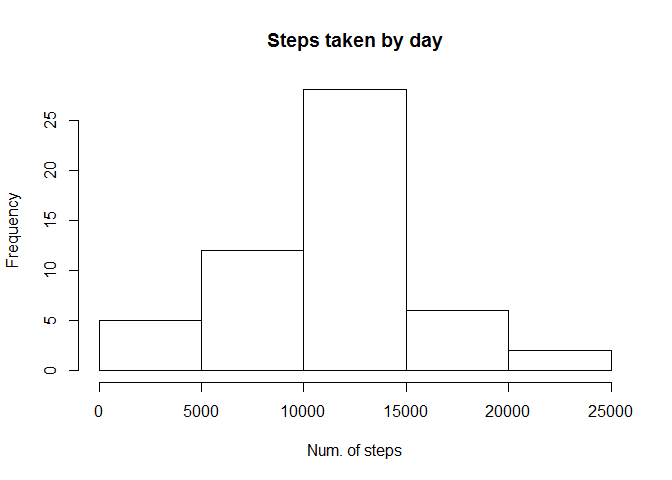
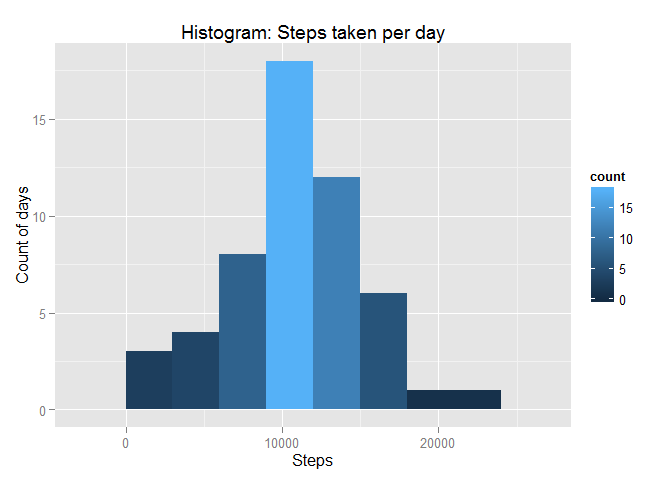
Changing graphics to ggplot. Part 3: done

diff --git a/PA1_template.html b/PA1_template.html
@@ -8,6 +8,7 @@
 <meta http-equiv="Content-Type" content="text/html; charset=utf-8" />
 <meta name="generator" content="pandoc" />
 
+<meta name="author" content="Tony G. Bolaño" />
 
 
 <title>Reproducible Research: Peer Assessment 1</title>
@@ -61,15 +62,15 @@ img {
 
 <div id="header">
 <h1 class="title">Reproducible Research: Peer Assessment 1</h1>
+<h4 class="author"><em>Tony G. Bolaño</em></h4>
 </div>
 
 
 <div id="loading-and-preprocessing-the-data" class="section level2">
 <h2>Loading and preprocessing the data</h2>
-<p>First of all we clean the workspace as you can read on <a href="https://support.rstudio.com/hc/en-us/articles/200711843-Working-Directories-and-Workspaces" class="uri">https://support.rstudio.com/hc/en-us/articles/200711843-Working-Directories-and-Workspaces</a> and unzip the data file, which create a <code>activity.csv</code> file. If <code>activity.csv</code> exists it will be overwritten.</p>
+<p>First of all we unzip the data file, which extracts <code>activity.csv</code> file. If <code>activity.csv</code> exists it will be overwritten.</p>
 <p>The scripts stops if no file <code>activity.zip</code> was found in working directory or it couldn’t be unzipped.</p>
-<pre class="r"><code>rm(list = ls())
-zipfile &lt;- &quot;activity.zip&quot;
+<pre class="r"><code>zipfile &lt;- &quot;activity.zip&quot;
 if (!file.exists(zipfile)) {
     stop (&quot;No activity.zip zipped data file found on working directory&quot;)
 }
@@ -87,8 +88,12 @@ tryCatch({
 <h2>What is mean total number of steps taken per day?</h2>
 <p>First we calculate total steps by day using <code>aggregate</code> function and plot an histogram with resulting data.frame.</p>
 <pre class="r"><code>steps_by_day &lt;- aggregate(steps ~ date, activity, sum)
-hist(steps_by_day$steps, main = &quot;Steps taken by day&quot;, xlab = &quot;Num. of steps&quot;)</code></pre>
[1 lines of base64/hex data omitted]
+library(ggplot2)
+p &lt;- ggplot(steps_by_day, aes(x = (steps)))
+p &lt;- p + labs( x = &quot;Steps&quot;, y = &quot;Count of days&quot;, title = &quot;Histogram: Steps taken per day&quot;)
+p &lt;- p + geom_histogram(binwidth = 3000 ,aes(fill = ..count..))
+p</code></pre>
[1 lines of base64/hex data omitted]
 <p>And now calculate mean and median</p>
 <pre class="r"><code>mean(steps_by_day$steps)</code></pre>
 <pre><code>## [1] 10766.19</code></pre>
@@ -97,6 +102,19 @@ hist(steps_by_day$steps, main = &quot;Steps taken by day&quot;, xlab = &quot;Num
 </div>
 <div id="what-is-the-average-daily-activity-pattern" class="section level2">
 <h2>What is the average daily activity pattern?</h2>
+<p>First we calculate the mean of steps on each five minutes interval. and draw a time series plot, marking the value of max. average steps at the top of the line.</p>
+<pre class="r"><code>int_avg &lt;- aggregate(steps ~ interval, activity, mean)
+
+p &lt;- ggplot( int_avg, aes(x = interval, y = steps)) + geom_line(colour = &quot;#0000CC&quot;)
+p &lt;- p + labs(x = &quot;Interval&quot;, y = &quot;Steps average&quot;, title = &quot;Steps average by time interval&quot;)
+p</code></pre>
[1 lines of base64/hex data omitted]
+<p>With this data.frame we calculate max value for steps and which interval correspond to that value.</p>
+<pre class="r"><code>maxavg &lt;- max(int_avg$steps)
+maxint &lt;- int_avg[int_avg$steps == maxavg,&quot;interval&quot;]
+maxint</code></pre>
+<pre><code>## [1] 835</code></pre>
+<p>As you can see, the max average of steps is around <strong>206</strong> steps at <strong>835</strong> interval.</p>
 </div>
 <div id="imputing-missing-values" class="section level2">
 <h2>Imputing missing values</h2>

diff --git a/PA1_template.md b/PA1_template.md
@@ -1,9 +1,10 @@
 # Reproducible Research: Peer Assessment 1
+Tony G. Bolaño  
 
 
 ## Loading and preprocessing the data
 
-First of all we clean the workspace as you can read on https://support.rstudio.com/hc/en-us/articles/200711843-Working-Directories-and-Workspaces and unzip the data file, which create a ```activity.csv``` file. If ```activity.csv``` exists it will be overwritten.
+First of all we unzip the data file, which extracts ```activity.csv``` file. If ```activity.csv``` exists it will be overwritten.
 
 The scripts stops if no file ```activity.zip``` was found in working directory or it couldn't be unzipped.
 
@@ -11,7 +12,6 @@ The scripts stops if no file ```activity.zip``` was found in working directory o
 
 
 ```r
-rm(list = ls())
 zipfile <- "activity.zip"
 if (!file.exists(zipfile)) {
     stop ("No activity.zip zipped data file found on working directory")
@@ -40,7 +40,11 @@ First we calculate total steps by day using ```aggregate``` function and plot an
 
 ```r
 steps_by_day <- aggregate(steps ~ date, activity, sum)
-hist(steps_by_day$steps, main = "Steps taken by day", xlab = "Num. of steps")
+library(ggplot2)
+p <- ggplot(steps_by_day, aes(x = (steps)))
+p <- p + labs( x = "Steps", y = "Count of days", title = "Histogram: Steps taken per day")
+p <- p + geom_histogram(binwidth = 3000 ,aes(fill = ..count..))
+p
 ```
 
 ![](PA1_template_files/figure-html/Steps by day-1.png) 
@@ -66,6 +70,33 @@ median(steps_by_day$steps)
 
 ## What is the average daily activity pattern?
 
+First we calculate the mean of steps on each five minutes interval. and draw a time series plot, marking the value of max. average steps at the top of the line.
+
+
+```r
+int_avg <- aggregate(steps ~ interval, activity, mean)
+
+p <- ggplot( int_avg, aes(x = interval, y = steps)) + geom_line(colour = "#0000CC")
+p <- p + labs(x = "Interval", y = "Steps average", title = "Steps average by time interval")
+p
+```
+
+![](PA1_template_files/figure-html/Average steps by interval-1.png) 
+
+With this data.frame we calculate max value for steps and which interval correspond to that value.
+
+
+```r
+maxavg <- max(int_avg$steps)
+maxint <- int_avg[int_avg$steps == maxavg,"interval"]
+maxint
+```
+
+```
+## [1] 835
+```
+
+As you can see, the max average of steps is around **206** steps at **835** interval.
 
 
 ## Imputing missing values
